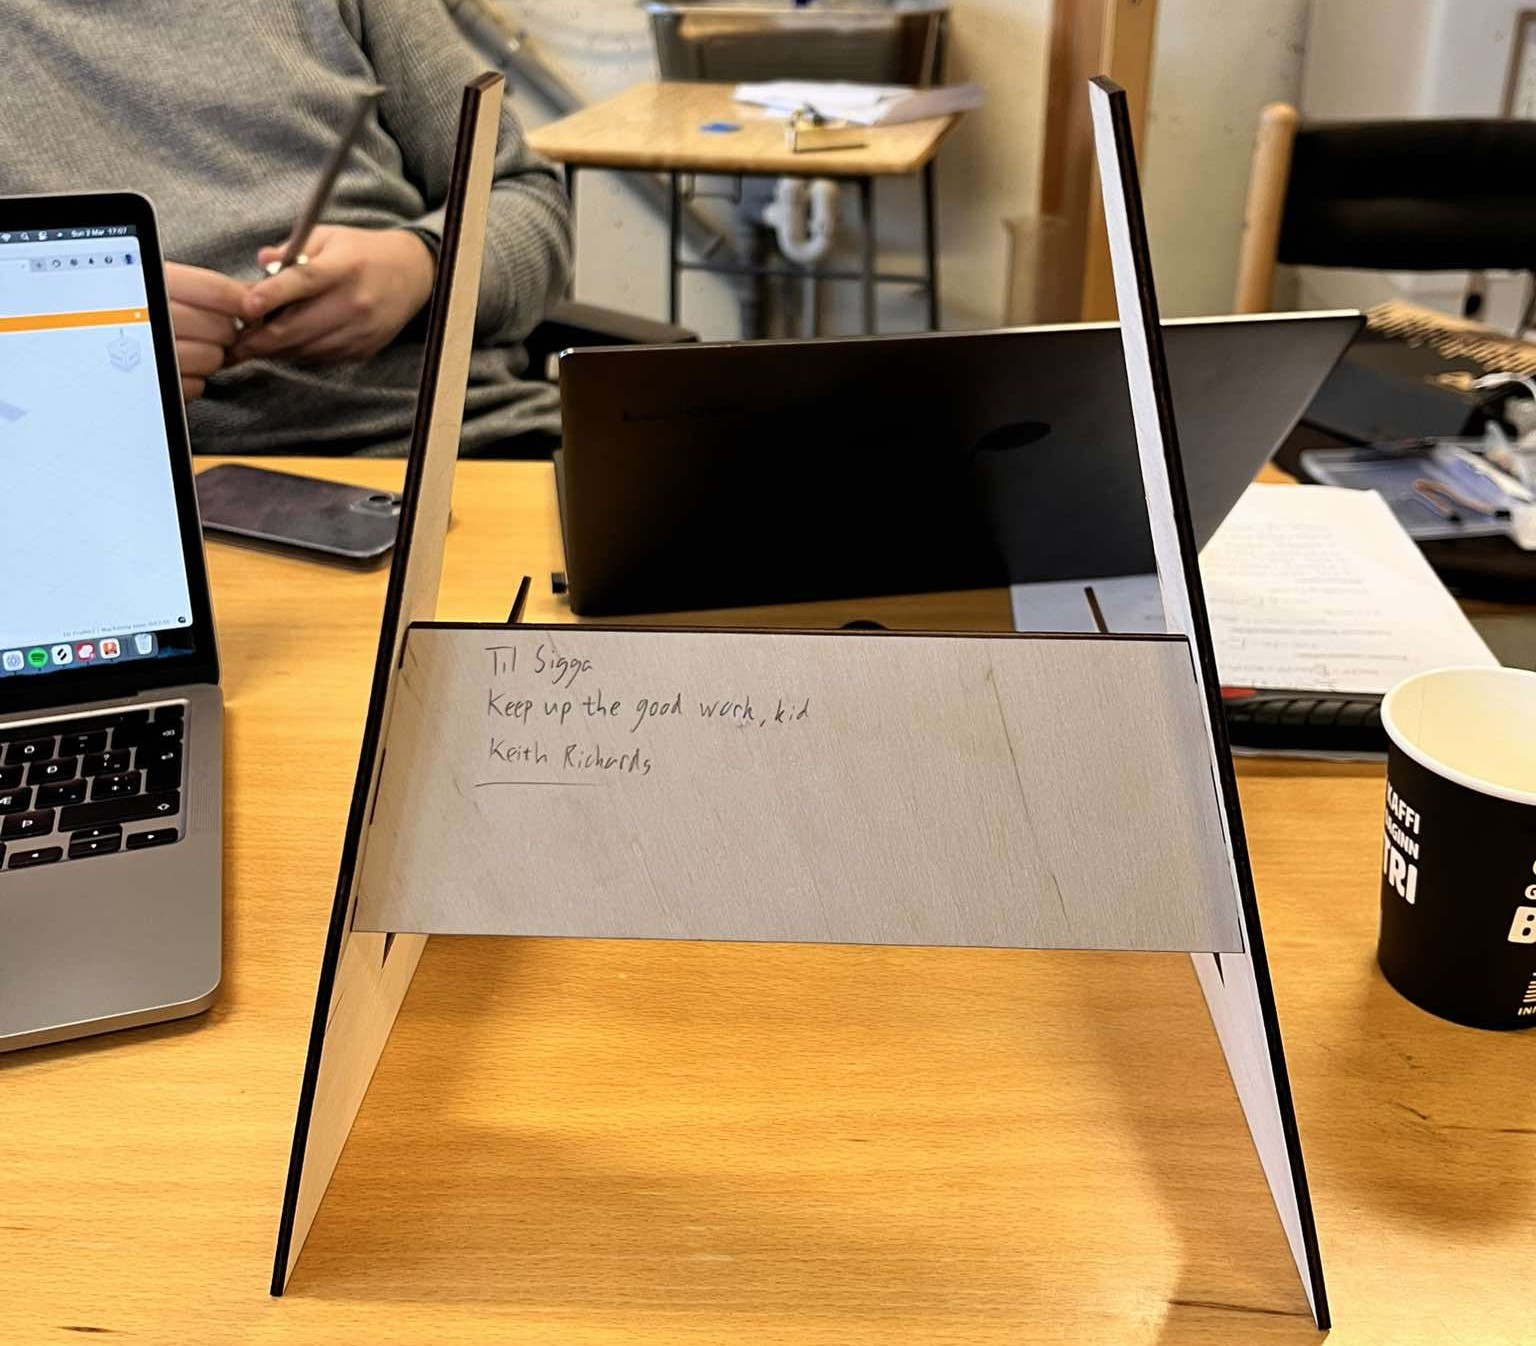
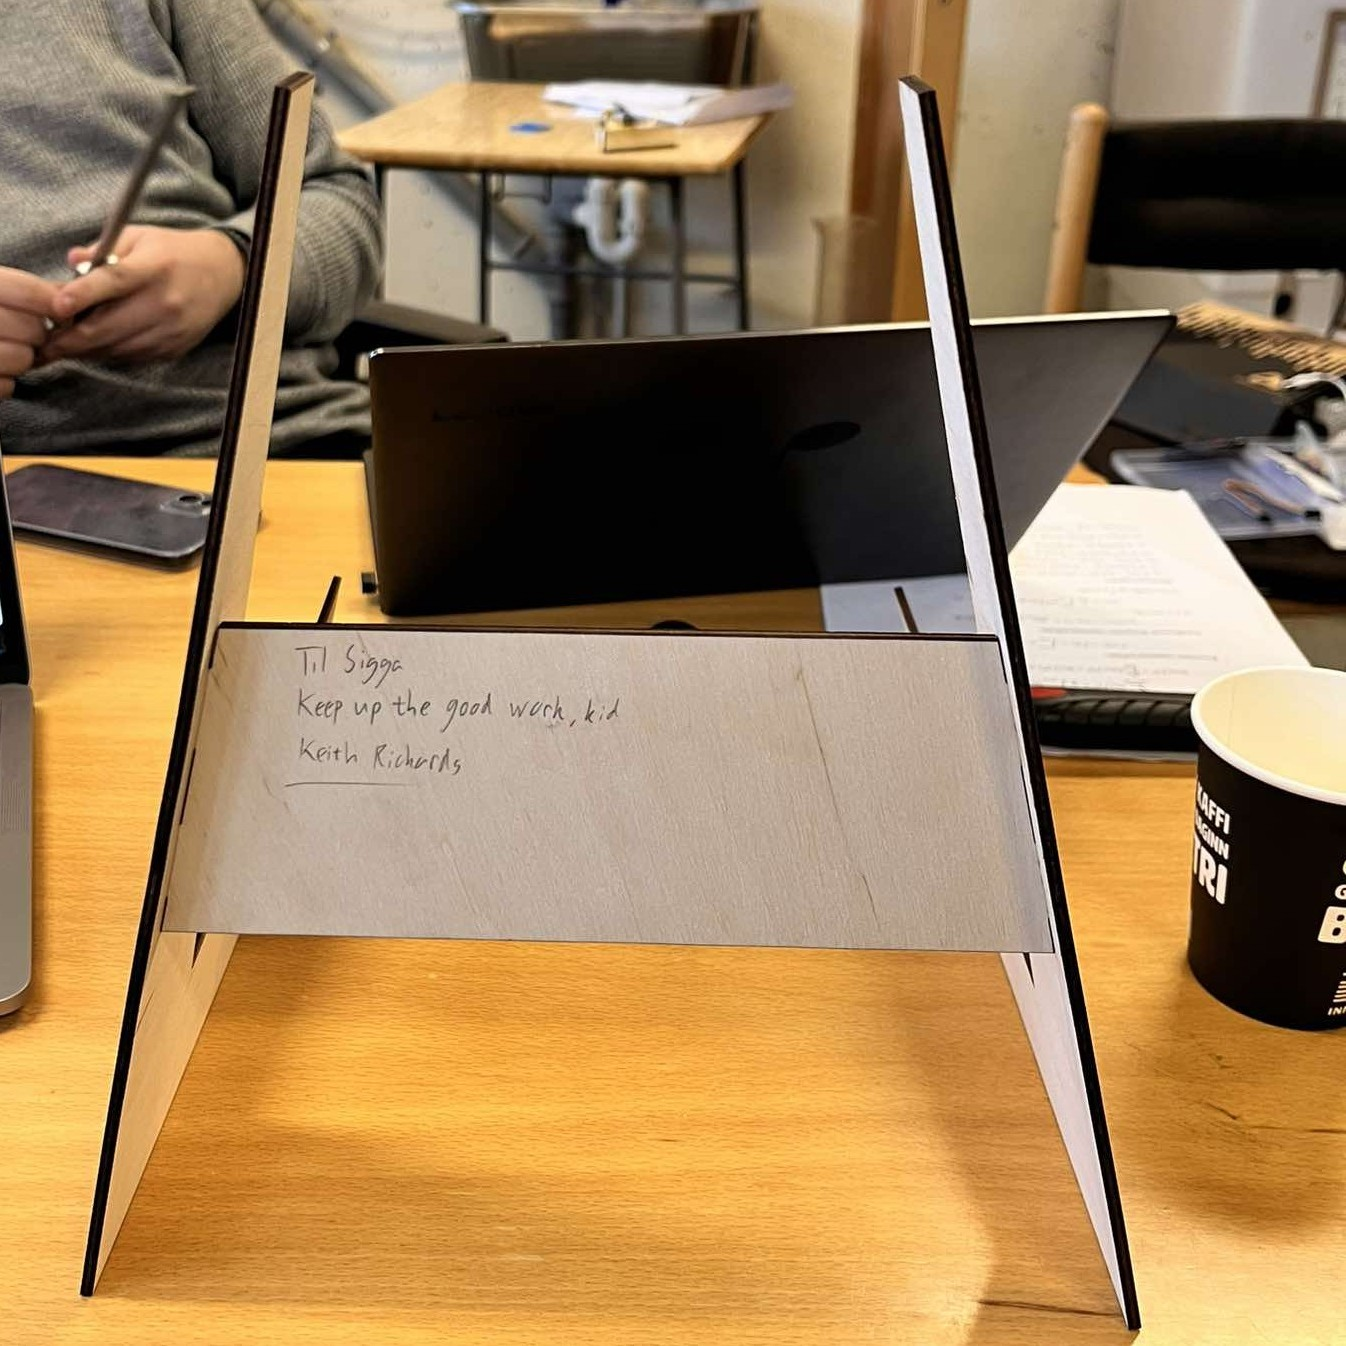
Inital commit

diff --git a/Verkefni 3.html b/Verkefni 3.html
@@ -34,7 +34,7 @@
 								<li><a href="Verkefni%201.html">Verkefni 1</a></li>
 								<li><a href="Verkefni%202.html">Verkefni 2</a></li>
 								<li><a href="Verkefni%203.html">Verkefni 3</a></li>
-								<li><a href="elements.html">Elements</a></li>
+								<li><a href="Lokaverkefni%C3%B0.html">Lokaverkefnið</a></li>
 							</ul>
 							<a href="#" class="close">Close</a>
 						</div>
@@ -58,31 +58,59 @@
 										
 									<h3 class="major">Hugmyndaleit og prófun</h3>
 									<p>Mig langði að 3D-prenta capo fyrir kassagítar – klemmu sem er notuð til að stytta hálsinn með því að þrýsta strengjunum niður. Flest capo eru með gormi sem heldur spennunni og festir þau á gítarinn, en mig langar að forðast að nota gorm í minni hönnun.
-										Ég fann áhugaverða lausn á þessu á Thingiverse þar sem fasti endinn er rifflaður þannig að þegar lausi endinn er þvingaður inn, læsist hann á sinn stað – svipað og festingar á snjóbretti. Þetta kerfi virkar án gorms en tryggir samt sterka og örugga festingu á gítarhálsinum.</p>
+										Ég fann áhugaverða lausn á þessu á <a href="https://www.thingiverse.com/">Thingiverse</a> þar sem fasti endinn er rifflaður þannig að þegar lausi endinn er þvingaður inn, læsist hann á sinn stað – svipað og festingar á snjóbretti. 
+										Þessi hönnun virkar án gorms en tryggir samt sterka og örugga festingu á gítarhálsinum.</p>
 									
-									<p>Ég vildi prenta þetta út í einu lagi þannig að allir hlutarnir væru samfastir eftir prentun, en að armurinn gæti samt snúist um liðinn. Til að prófa þessa hugmynd byrjaði ég á að hanna prufueintak – einfaldan lítinn lið.
-										Þegar ég exportaði teikningunni yfir í Prusa Slicer, sem er sem er forrit sem tengist prentaranum sjálfum, birtist liðurinn sem einn samfelldur hlutur án þess að nokkuð benti til þess að hann gæti snúist. Til að leysa þetta vandamál endaði ég á því að bæta við holu í gegnum liðinn,
+									<p>Til að byrja með hlóð ég niður <a href="https://prusaslicer.net/">Prusa Slicer</a> og setti það upp samkvæmt <a href="https://www.youtube.com/watch?v=Noqzgru1wNY&t=154s">myndbandi</a> frá Hafliða. Ég vildi prenta þetta út í einu lagi þannig að allir hlutarnir væru samfastir eftir prentun og armurinn gæti samt snúist um liðinn. 
+										Til að prófa þessa hugmynd byrjaði ég á að hanna prufueintak – einfaldan lítinn lið.
+										Þegar ég exportaði teikningunni yfir í <a href="https://prusaslicer.net/">Prusa Slicer</a> birtist liðurinn sem einn samfelldur hlutur án þess að nokkuð benti til þess að hann gæti snúist. Til að leysa þetta vandamál endaði ég á því að bæta við holu í gegnum liðinn,
 										þannig að hægt væri að nota skrúfu eða eitthvað annað til að festa hlutina saman.<p/>
-									
-									<img style="display: block; margin: auto; height: fit-content; width: 70%;" src="images/lidur.png" alt="lidur" />
-									
+									<div class="box alt">
+											<div class="row gtr-uniform">
+												<div class="col-6"><span class="image fit"><img src="images/lidur.png" alt="" /></span></div>
+												<div class="col-6"><span class="image fit"><img src="images/prof_capo_lidur.jpg" alt="" /></span></div>
+											</div>
+									</div>
 									<p>Þegar ég hafði prentað prufueintakið prófaði ég að setja það saman og athuga hvernig það kæmi út. Þá komst ég að því að hlutirnir pössuðu ekki fullkomlega saman, sem stafaði af því að efnið þenst örlítið út við prentun. 
 										Til að koma í veg fyrir þetta þurfti ég að taka þessa útþenslu með í reikningana þegar ég hannaði capo-ið mitt og aðlaga mælingarnar þannig að hlutirnir pössuðu eftir prentun.</p>
 									<h3 class="major">Teikning</h3>
 									<p>Ég byrjaði á því að mæla hálsinn á gítarnum mínum og námundaði allar mælingar gróflega upp að næstu "fallegu" tölu til að auðvelda útreikninga og hönnun. Til að halda sveigjanleika í hönnuninni teiknaði ég hana parametrískt, sem gerði mér kleift að breyta bæði breidd og þykkt capo-sins eftir þörfum.
-										Fyrir rifflaða hlutann bjó ég til lítinn rétthyrndan þríhyrning og notaði síðan "rectangular pattern" til að afrita hann reglulega upp eftir arminum. Með þessu móti gat ég búið til jafna og endurtekna rifflun sem tryggir betri grip og festu þegar capo-ið er notað.</p>									
+										Fyrir rifflaða hlutann bjó ég til lítinn rétthyrndan þríhyrning og notaði síðan "rectangular pattern" til að afrita hann reglulega upp eftir arminum. Með þessu móti gat ég búið til jafna og endurtekna rifflun sem tryggir betra grip og festu þegar capo-ið er notað.</p>									
 									<img style="display: block; margin: auto; height: fit-content; width: 70%;" src="images/rifin.png" alt="rifin" />
 									<p>Parametrarnir sem voru notaðir eru eftirfarandi:</p>
 									<img style="display: block; margin: auto; height: fit-content; width: 70%;" src="images/parametrar_capo.png" alt="parametrar capo" />
 									<p>Hér samsvarar breiddin í raun breidd hálssins á gítarnum, þykktin samsvarar dýpt hálssins. Efni er efnisþykktin en raunverulega efnisþykktin var 3*Efni.</p>
 									<p>Þegar teikningin var tilbúin leit hún svona út:</p>
 									<div>
-										<embed style="height: 100vh; width: 100%;" src="https://a360.co/3Rh29aB" type="" title="Ferilskrá">
+										<embed style="height: 100vh; width: 100%;" src="https://a360.co/3Rh29aB" type="" title="Capo">
 									</div>
-									<p>Til þess að fá 3D-view af hlutnum fylgdi ég myndbandi af youtube.</p>
+									<p>Til þess að fá 3D-view af hlutnum fylgdi ég <a href="https://www.youtube.com/watch?v=f0jkN5wnk6g">myndbandi</a> af youtube.</p>
+									<h3 class="major">3D prentun</h3>
+									<p>3D prentunin tókst mjög vel og ég festi partana tvo saman með bolta og ró. Capo-ið virkaði frábærlega – festingin heldur nægilega vel til að tónninn á gítarinn verði skýr og góður.</p> 
+									<div class="box alt">
+											<div class="row gtr-uniform">
+												<div class="col-6"><span class="image fit"><img src="images/caporeal1.jpg" alt="" /></span></div>
+												<div class="col-6"><span class="image fit"><img src="images/caporeal2.jpg" alt="" /></span></div>
+											</div>
+									</div>
 									
+									<p>Það er hægt að nota capo-ið bæði á rafmagns- og kassagítar, þrátt fyrir að hálsinn sé aðeins þykkari á kassagítar.
+										Á myndunum hér að neðan má sjá capo-ið á hálsinum á rafmagnsgítar (til vinstri) og kassagítar (í miðju og hægra megin).</p>
+									<div class="box alt">
+											<div class="row gtr-uniform">
+												<div class="col-4"><span class="image fit"><img src="images/rafmagnscapo.jpg" alt="" /></span></div>
+												<div class="col-4"><span class="image fit"><img src="images/kassacapo.jpg" alt="" /></span></div>
+												<div class="col-4"><span class="image fit"><img src="images/kassacapo2.jpg" alt="" /></span></div>
+											</div>
+									</div>
+									<p></p>
 									<h3 class="major">3D skönnun</h3>
-									<p>Já einmitt</p>
+									<p>Ég ákvað að 3D skanna míkrafón sem ég á og notaði í það app á símanum sem heitir <a href="https://poly.cam/">Polycam</a>. Ég prófaði þetta nokkrum sinnum og þessi hér fyrir neðan var besta útgáfan. Til þess að skoða og hreyfa 3D módelið er best að ýta á myllumerkið hægra megin.</p>
+									<embed style="height: 100vh; width: 100%;" src="https://poly.cam/capture/78BA6CFD-F682-46A3-B6D6-A2EDE472D5FA" type="" title="microphone">
+									<h3 class="major">Niðurstöður og lokaorð</h3>
+									<p>Verkefnið gekk mjög vel, bæði er ég einu capo-i og reynslunni ríkari eftir þetta. Í gegnum ferlið lærði ég hversu mikilvægt það er gera prufueintak áður en farið er út í stóra prentið, hvernig hægt er að hanna hluti sem ekki væri hægt að búa til með hefðbundinni frádráttarframleiðslu, 
+										og að 3D skönnun getur verið mjög gagnleg til að endurgera eða sérsníða hluti. 
+										Verkefnið var bæði fróðlegt og skemmtilegt og ég er mjög ánægður með lokaútkomuna. Capo-ið mitt mun klárlega nýtast vel í framtíðinni!</p>
 
 								</div>
 							</div>

diff --git a/Verkefni 2.html b/Verkefni 2.html
@@ -34,7 +34,7 @@
 								<li><a href="Verkefni%201.html">Verkefni 1</a></li>
 								<li><a href="Verkefni%202.html">Verkefni 2</a></li>
 								<li><a href="Verkefni%203.html">Verkefni 3</a></li>
-								<li><a href="elements.html">Elements</a></li>
+								<li><a href="Lokaverkefni%C3%B0.html">Lokaverkefnið</a></li>
 							</ul>
 							<a href="#" class="close">Close</a>
 						</div>
@@ -52,12 +52,12 @@
 						<!-- Content -->
 							<div class="wrapper">
 								<div class="inner">
-
+									
 									<h3 class="major">Verkefnislýsing</h3>
 									<p>Seinna verkefni námskeiðsins skiptist í tvo hluta. Í fyrri hlutanum áttum við að hanna límmiða að eigin vali með hámarksstæðina 100mmx50mm og nota vínylskera til að skera hann út.</p>
 									<p>Í seinni hlutanum unnum við að hönnun parametrísks, geirneglds módels af byggingareiningum. Módelið þurfti að vera skalanlegt á mismunandi vegu – bæði í lengd, breidd og efnisþykkt – og útfært með hentugum parametrískum hugbúnaði að eigin vali. Auk þess þurfti hönnunin að innihalda að minnsta kosti þrjá geirneglda festipunkta.</p>
 									<p>Hluti verkefnisins fól einnig í sér val á geislaskera og ákvörðun á kerf gildinu fyrir viðkomandi skera, sem var gert með prófunum.</p>
-
+									
 									<h3 class="major">Vinylskurður</h3>
 									<p>Fyrst hlóð ég niður forritinu Inkscape samkvæmt leiðbeiningunum. Ég ákvað að eyða ekki of miklum tíma í hönnun límmiðans og gerði einfalda svarta stjörnu þar sem ég var orðinn spenntur að hefjast handa við geislaskurðinn.</p>
 									<img style="display: block; margin: auto; height: fit-content; width: 30%;" src="images/stj%C3%B6rna.jpg" alt="stjörna" />
@@ -122,9 +122,14 @@
 									<p>Áður en ég fór í að skera út standinn prófaði ég að skera út lítinn hlut með pressfit festingum til að ganga úr skugga um að kerf-ið væri ekki alveg örugglega rétt hjá mér. 
 									Það kom í ljós að hluturinn passaði ekki, þ.e. of langt bil var á milli tannanna. Þá prófaði ég að hækka kerf-ið og að lokum fékk ég hlutina til að passa saman með 0.43mm kerf.</p>
 									<img style="display: block; margin: auto; height: fit-content; width: 70%;" src="images/prufa2.png" alt="prufa2" />
-									<p>Eftir að standurinn hafði verið skorinn út og settur saman hitti ég Kieth Richards í kaffistofunni í VR3 og hann áritaði standinn fyrir mig.</p>
-									<img style="display: block; margin: auto; height: fit-content; width: 70%;" src="images/standur_richards.jpg" alt="Kieth Richards" />
-									<p>Hér að neðan er svo nokkrar myndir, meðal annars af standinum í notkun.</p>
+									<p>Eftir að standurinn hafði verið skorinn út og settur saman hitti ég Kieth Richards í kaffistofunni í VR3 og hann áritaði standinn fyrir mig. Hann var hæstánægðu með hönnunina mína og kallaði mig "kid" sem þýðir "brósi" á ensku.</p>
+									<div class="box alt">
+											<div class="row gtr-uniform">
+												<div class="col-6"><span class="image fit"><img src="images/standur_richards.jpg" alt="" /></span></div>
+												<div class="col-6"><span class="image fit"><img src="images/kieth.jpg" alt="" /></span></div>
+											</div>
+									</div>
+									<p>Hér að neðan er svo nokkrar myndir, meðal annars af standinum í notkun. Það kom þó í ljós að standurinn er með hönnunargalla. Það var ekki nógu mikill stuðningur við botn standsins og á hann því til að gliðna í sundur við lítið álag. Þetta er hægt að leysa með einni lítilli festingu (jafnvel snæri) sem fer milli fótanna.</p>
 									<div class="box alt">
 											<div class="row gtr-uniform">
 												<div class="col-4"><span class="image fit"><img src="images/standur_real.jpg" alt="" /></span></div>
@@ -132,16 +137,23 @@
 												<div class="col-4"><span class="image fit"><img src="images/gitar2.jpg" alt="" /></span></div>
 											</div>
 									</div>
-									<p>Að lokum bjó ég til aðgang á <a href="https://www.thingiverse.com/">Thingiverse</a> og birti standinn minn þar ásamt Fusion skránni minni, hann er hægt að nálgast <a href="https://www.thingiverse.com/thing:6969523">hér</a>.</p>
+									<p>Að lokum bjó ég til aðgang á <a href="https://www.thingiverse.com/">Thingiverse</a> og birti standinn minn þar ásamt Fusion skránni minni, hann er hægt að nálgast hér að neðan.</p>
+									<div class="col-6 col-12-medium">
+												<ul class="actions">
+													<li><a href="https://www.thingiverse.com/thing:6969523" class="button">Thingiverse hlutur</a></li>
+												</ul>
+											</div>
 									<img style="display: block; margin: auto; height: fit-content; width: 100%;" src="images/thingiverse.png" alt="thingiverse" />
+									<h3 class="major">Lokaorð</h3>
+									<p>Þetta verkefni gaf mér betri skilning á parametrískri hönnun og laserskurði. Ég lærði hversu miklu máli stillingar skipta og hvernig parametrísk hönnun getur gert flóknar teikningar mun einfaldari í vinnslu.</p>
 								</div>
 							</div>
-
+							
 					</section>
-
-
+							
+						
 			</div>
-
+						
 		<!-- Scripts -->
 			<script src="assets/js/jquery.min.js"></script>
 			<script src="assets/js/jquery.scrollex.min.js"></script>
@@ -149,6 +161,6 @@
 			<script src="assets/js/breakpoints.min.js"></script>
 			<script src="assets/js/util.js"></script>
 			<script src="assets/js/main.js"></script>
-
+				
 	</body>
 </html>

diff --git a/Lokaverkefnið.html b/Lokaverkefnið.html
@@ -1,0 +1,84 @@
+<!DOCTYPE HTML>
+<!--
+	Solid State by HTML5 UP
+	html5up.net | @ajlkn
+	Free for personal and commercial use under the CCA 3.0 license (html5up.net/license)
+-->
+<html>
+	<head>
+		<title>Generic - Solid State by HTML5 UP</title>
+		<meta charset="utf-8" />
+		<meta name="viewport" content="width=device-width, initial-scale=1, user-scalable=no" />
+		<link rel="stylesheet" href="assets/css/main.css" />
+		<noscript><link rel="stylesheet" href="assets/css/noscript.css" /></noscript>
+	</head>
+	<body class="is-preload">
+
+		<!-- Page Wrapper -->
+			<div id="page-wrapper">
+
+				<!-- Header -->
+					<header id="header">
+						<h1><a href="index.html">SAS</a></h1>
+						<nav>
+							<a href="#menu">Menu</a>
+						</nav>
+					</header>
+
+				<!-- Menu -->
+					<nav id="menu">
+						<div class="inner">
+							<h2>Menu</h2>
+							<ul class="links">
+								<li><a href="index.html">Home</a></li>
+								<li><a href="Verkefni%201.html">Verkefni 1</a></li>
+								<li><a href="Verkefni%202.html">Verkefni 2</a></li>
+								<li><a href="Verkefni%203.html">Verkefni 3</a></li>
+								<li><a href="Lokaverkefni%C3%B0.html">Lokaverkefnið</a></li>
+							</ul>
+							<a href="#" class="close">Close</a>
+						</div>
+					</nav>
+
+				<!-- Wrapper -->
+					<section id="wrapper">
+						<header>
+							<div class="inner">
+								<h2>Lokaverkefnið</h2>
+								<p>Vindmylluvængur fræstur með Shopbot.</p>
+							</div>
+						</header>
+
+						<!-- Content -->
+							<div class="wrapper">
+								<div class="inner">
+									<h3 class="major">Lýsing</h3>
+									<p>Lokaverkefnið fól í sér að hanna og smíða eitthvað með aðstoð fræsara. Verkefnið var unnið í hópi, þar sem við hönnuðum og unnum vindmylluspaða frá grunni. 
+										Nánari upplýsingar um verkefnið og framkvæmd þess má finna á sérstakri verkefnavefsíðu, sem er tengd hér að neðan.</p>
+									<div class="row">
+											<div class="col-6 col-12-medium">
+												<ul class="actions">
+													<li><a href="https://eagle301.github.io/Lokaverkefni/?fbclid=IwZXh0bgNhZW0CMTEAAR7CodVMN8f7CiqAlnVEbFESaefFxzh-iYZtqyVsKlC2uTBSHH2pNUoSqH2tDA_aem_xiC8TYNhh7oiZzMy-UPGJw" class="button primary">Lokaverkefni Vefsíða</a></li>
+												</ul>
+											</div>
+										</div>
+								</div>
+								
+							</div>
+
+					</section>
+
+				
+
+			</div>
+
+		<!-- Scripts -->
+			<script src="assets/js/jquery.min.js"></script>
+			<script src="assets/js/jquery.scrollex.min.js"></script>
+			<script src="assets/js/browser.min.js"></script>
+			<script src="assets/js/breakpoints.min.js"></script>
+			<script src="assets/js/util.js"></script>
+			<script src="assets/js/main.js"></script>
+
+	</body>
+</html>

diff --git a/Verkefni 1.html b/Verkefni 1.html
@@ -34,7 +34,7 @@
 								<li><a href="Verkefni%201.html">Verkefni 1</a></li>
 								<li><a href="Verkefni%202.html">Verkefni 2</a></li>
 								<li><a href="Verkefni%203.html">Verkefni 3</a></li>
-								<li><a href="elements.html">Elements</a></li>
+								<li><a href="Lokaverkefni%C3%B0.html">Lokaverkefnið</a></li>
 							</ul>
 							<a href="#" class="close">Close</a>
 						</div>

diff --git a/index.html b/index.html
@@ -34,7 +34,7 @@
 								<li><a href="Verkefni%201.html">Verkefni 1</a></li>
 								<li><a href="Verkefni%202.html">Verkefni 2</a></li>
 								<li><a href="Verkefni%203.html">Verkefni 3</a></li>
-								<li><a href="elements.html">Elements</a></li>
+								<li><a href="Lokaverkefni%C3%B0.html">Lokaverkefnið</a></li>
 							</ul>
 							<a href="#" class="close">Close</a>
 						</div>
